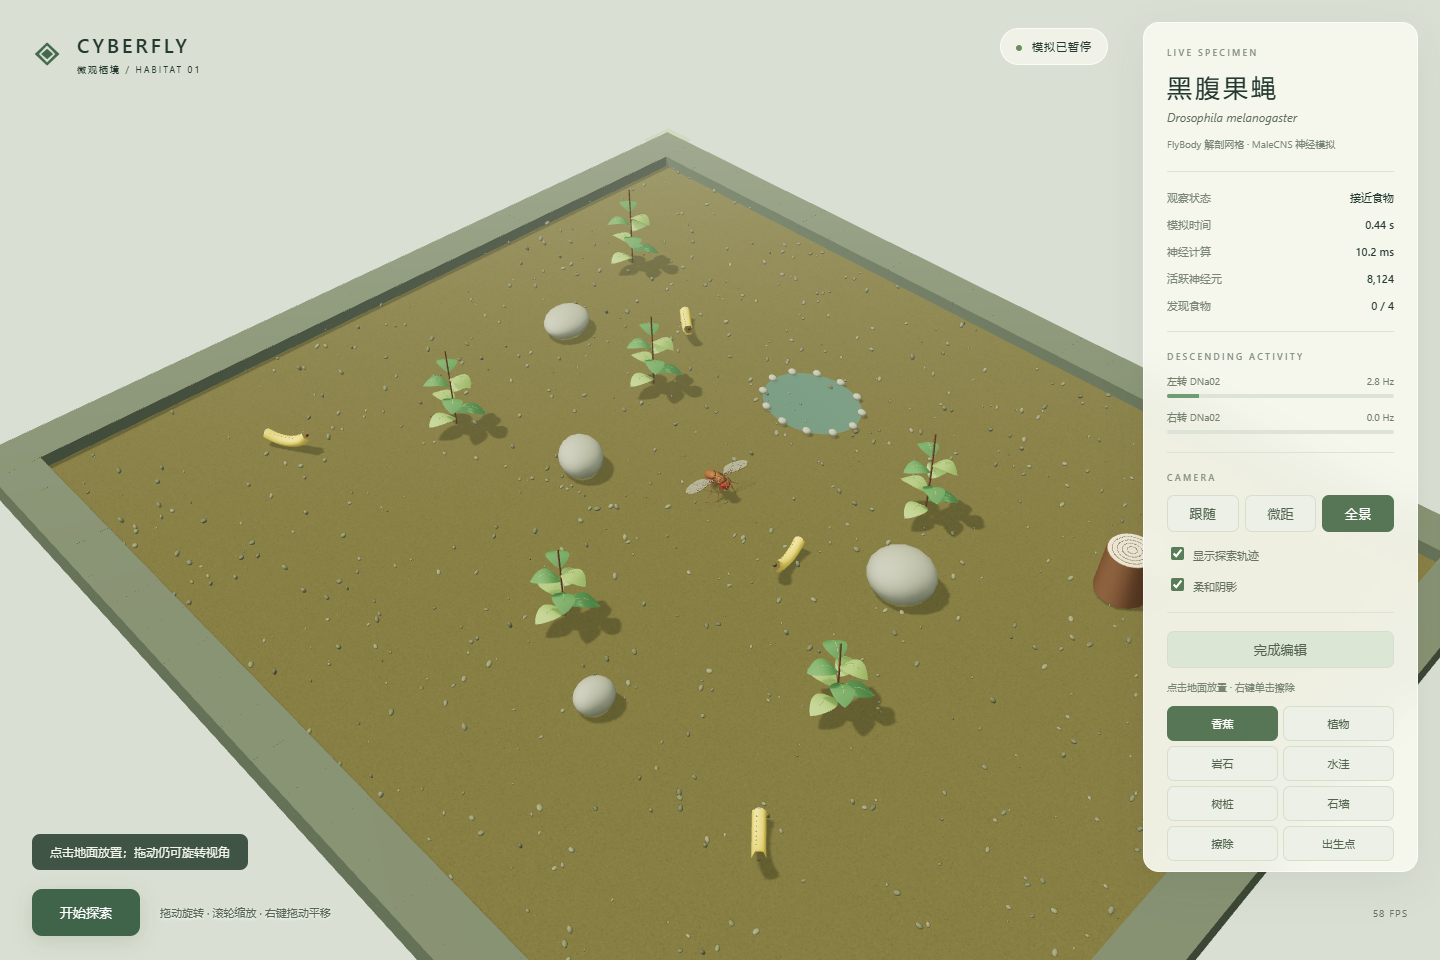
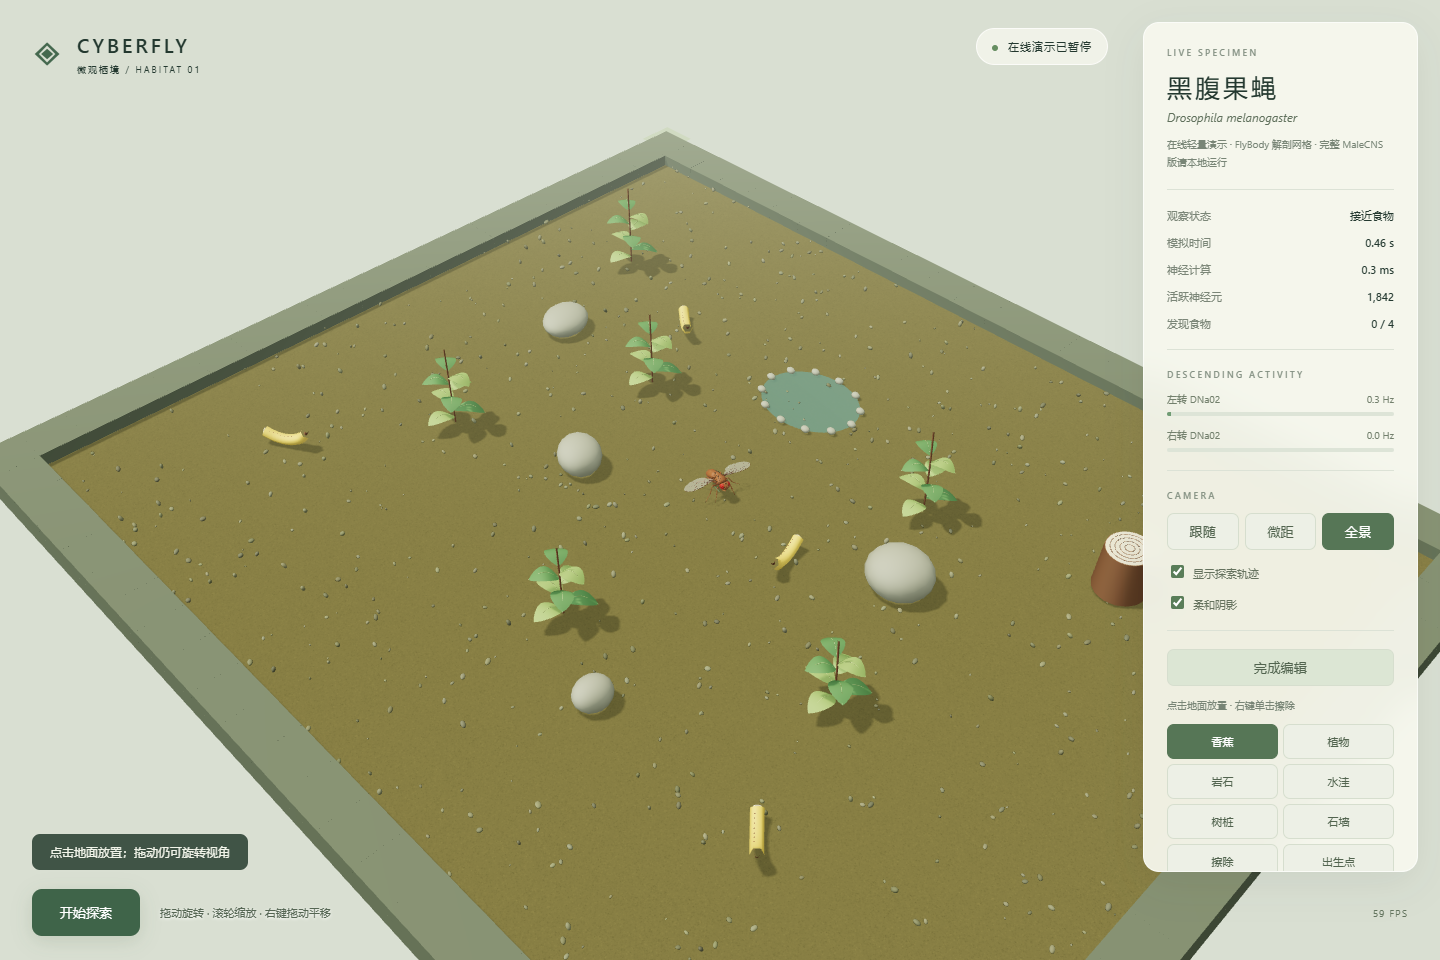
Add adult fly no-install browser demo

diff --git a/web/demo-api.js b/web/demo-api.js
@@ -1,0 +1,30 @@
+/* Browser-only controller for the public demo. The local application never
+   loads this file and continues to use the Python MaleCNS backend. */
+(() => {
+  const nativeFetch=window.fetch.bind(window),width=24,height=20,dt=.02,clamp=(v,a,b)=>Math.max(a,Math.min(b,v)),wrap=a=>(a+Math.PI)%(Math.PI*2)-Math.PI;
+  const garden=()=>({
+    grid:Array.from({length:height},(_,y)=>Array.from({length:width},(_,x)=>x===0||y===0||x===width-1||y===height-1?'#':'.')),
+    foods:[[14,10],[7,6],[18,15],[4,15]].map(([x,y])=>({x,y,radius:.28})),
+    decor:[...[ [8,8,1.6],[15,7,1.8],[17,12,1.4],[6,12,1.7],[12,14,1.5],[4,5,1.8] ].map(([x,y,height])=>({kind:'plant',x,y,radius:.32,height,solid:true})),
+      ...[[9,11,.55,.65],[16,9,.7,.85],[5,8,.6,.5],[14,15,.4,.55]].map(([x,y,radius,height])=>({kind:'rock',x,y,radius,height,solid:true})),
+      {kind:'stump',x:19,y:6,radius:.55,height:1,solid:true},{kind:'puddle',x:11,y:6,radius:1.2,height:.01,solid:false}]
+  });
+  let grid,foods,decor,fly,time,distance,trail,revision=0,paused=true;
+  function reset(){({grid,foods,decor}=garden());fly={x:11.5,y:9.5,heading:.25,speed:0,energy:1,foods_found:0,state:'exploring',feeding_time:0};time=distance=0;trail=[];paused=true;revision++}
+  function wall(x,y){let ix=Math.floor(x),iy=Math.floor(y);return !grid[iy]||grid[iy][ix]==='#'||decor.some(o=>o.solid&&Math.hypot(x-o.x,y-o.y)<o.radius+.16)}
+  function nearestFood(){return foods.slice().sort((a,b)=>Math.hypot(fly.x-a.x,fly.y-a.y)-Math.hypot(fly.x-b.x,fly.y-b.y))[0]}
+  function tick(){if(paused)return;let food=nearestFood(),dist=food?Math.hypot(food.x-fly.x,food.y-fly.y):99,bearing=food?wrap(Math.atan2(food.y-fly.y,food.x-fly.x)-fly.heading):0;
+    let ahead=wall(fly.x+Math.cos(fly.heading)*.55,fly.y+Math.sin(fly.heading)*.55),turn=ahead?1.0:clamp(bearing*.85,-.72,.72),forward=dist<.48?.04:.72;
+    fly.state=dist<.48?'feeding':ahead?'avoiding':dist<5?'tracking food':'exploring';fly.feeding_time=fly.state==='feeding'?fly.feeding_time+dt:0;fly.heading=wrap(fly.heading+turn*2.2*dt);fly.speed+=(forward-fly.speed)*dt*5;
+    let nx=fly.x+Math.cos(fly.heading)*fly.speed*dt,ny=fly.y+Math.sin(fly.heading)*fly.speed*dt;if(!wall(nx,ny)){fly.x=nx;fly.y=ny;distance+=fly.speed*dt}else fly.heading=wrap(fly.heading+.65);
+    time+=dt;fly.energy=Math.max(0,fly.energy-fly.speed*dt*.002);if(fly.feeding_time>1&&food){foods=foods.filter(f=>f!==food);fly.foods_found++;fly.feeding_time=0;fly.energy=Math.min(1,fly.energy+.3);revision++}
+    if(!trail.length||Math.hypot(fly.x-trail.at(-1)[0],fly.y-trail.at(-1)[1])>.06)trail.push([fly.x,fly.y]);trail=trail.slice(-400);
+  }
+  function state(){let food=nearestFood(),bearing=food?wrap(Math.atan2(food.y-fly.y,food.x-fly.x)-fly.heading):0;return {fly,stats:{motor_forward:.72,motor_turn:clamp(bearing*.85,-.72,.72),motor_escape:0,steer_L:Math.max(0,-bearing)*13,steer_R:Math.max(0,bearing)*13,active:1842,step_ms:.25},status:'demo',error:'',paused,time,revision,foods,distance,trail}}
+  function world(){return {grid:grid.map(r=>r.join('')),decor,foods,revision}}
+  function paint(x,y,tool){if(x<1||y<1||x>=width-1||y>=height-1)return;foods=foods.filter(o=>Math.floor(o.x)!==x||Math.floor(o.y)!==y);decor=decor.filter(o=>Math.floor(o.x)!==x||Math.floor(o.y)!==y);grid[y][x]=tool==='wall'?'#':'.';let cx=x+.5,cy=y+.5,spec={rock:[.34,.48,true],plant:[.27,.76,true],stump:[.34,.62,true],puddle:[.65,.01,false]}[tool];if(spec)decor.push({kind:tool,x:cx,y:cy,radius:spec[0],height:spec[1],solid:spec[2]});else if(tool==='food')foods.push({x:cx,y:cy,radius:.28});else if(tool==='spawn'){fly.x=cx;fly.y=cy;trail=[]}revision++}
+  function command(d){if(d.action==='pause')paused=!!d.value;else if(d.action==='garden')reset();else if(d.action==='paint')paint(+d.x,+d.y,d.tool);else if(d.action==='save')localStorage.setItem('cyberfly-map',JSON.stringify({grid,foods,decor,fly}));else if(d.action==='load'){let saved=JSON.parse(localStorage.getItem('cyberfly-map')||'null');if(saved){({grid,foods,decor,fly}=saved);trail=[];revision++}}return {ok:true}}
+  reset();setInterval(tick,dt*1000);const reply=(d,s=200)=>Promise.resolve(new Response(JSON.stringify(d),{status:s,headers:{'Content-Type':'application/json'}}));
+  window.fetch=(input,init={})=>{let url=new URL(typeof input==='string'?input:input.url,location.href);if(!url.pathname.includes('/api/'))return nativeFetch(input,init);if(url.pathname.endsWith('/api/state'))return reply(state());if(url.pathname.endsWith('/api/world'))return reply(world());if(url.pathname.endsWith('/api/command'))return reply(command(JSON.parse(init.body||'{}')));return reply({error:'unknown demo endpoint'},404)};
+  addEventListener('DOMContentLoaded',()=>{let c=document.querySelector('aside .caption');if(c)c.textContent='在线轻量演示 · FlyBody 解剖网格 · 完整 MaleCNS 版请本地运行'});
+})();

diff --git a/web/main.js b/web/main.js
@@ -85,7 +85,7 @@ const pathMat=new T.LineBasicMaterial({color:'#719a72',transparent:true,opacity:
 function toast(t){$('toast').textContent=t;$('toast').style.opacity=1;clearTimeout(window.toastTimer);window.toastTimer=setTimeout(()=>$('toast').style.opacity=0,3500);}
 async function command(d){const r=await fetch('/api/command',{method:'POST',headers:{'Content-Type':'application/json'},body:JSON.stringify(d)});const j=await r.json();if(!r.ok)throw Error(j.error);return j;}
 async function poll(){try{latest=await (await fetch('/api/state')).json();if(lastRevision!==latest.revision)buildWorld(await(await fetch('/api/world')).json());rebuildFoods(latest.foods);
- $('status').textContent=latest.error?latest.error:latest.status==='warming'?'神经模型预热中':latest.status==='preview'?'画面预览 · 无神经模拟':latest.paused?'模拟已暂停':'全脑闭环运行中';
+ $('status').textContent=latest.error?latest.error:latest.status==='warming'?'神经模型预热中':latest.status==='preview'?'画面预览 · 无神经模拟':latest.status==='demo'?(latest.paused?'在线演示已暂停':'在线轻量闭环运行中'):latest.paused?'模拟已暂停':'全脑闭环运行中';
  const states={'exploring':'探索','feeding':'接触食物','escaping':'逃逸','avoiding':'接近障碍','tracking food':'接近食物'};
  $('behavior').textContent=states[latest.fly.state]||latest.fly.state;$('simtime').textContent=latest.time.toFixed(2)+' s';$('ms').textContent=latest.stats.step_ms?latest.stats.step_ms.toFixed(1)+' ms':'—';$('active').textContent=latest.status==='preview'?'—':(latest.stats.active||0).toLocaleString();$('food').textContent=latest.fly.foods_found+' / '+(latest.foods.length+latest.fly.foods_found);
  $('play').textContent=latest.paused?'开始探索':'暂停探索';

diff --git a/README.md b/README.md
@@ -2,6 +2,8 @@
 
 一只由 MaleCNS 神经模型驱动的果蝇，在 Three.js / WebGL 三维栖境中探索。浏览器在本机运行画面，Python 在本机 CPU 上计算神经活动。
 
+**[直接体验网页版](https://chenyvhang.github.io/cyberfly-explorer/)** — 无需安装。在线版使用浏览器内轻量控制器；本地版保留完整 166,700 神经元 MaleCNS 模型。
+
 ![Cyberfly Explorer 微距视图](preview-3d-macro.png)
 
 ![Cyberfly Explorer 三维地图编辑器](preview-3d-editor.png)
